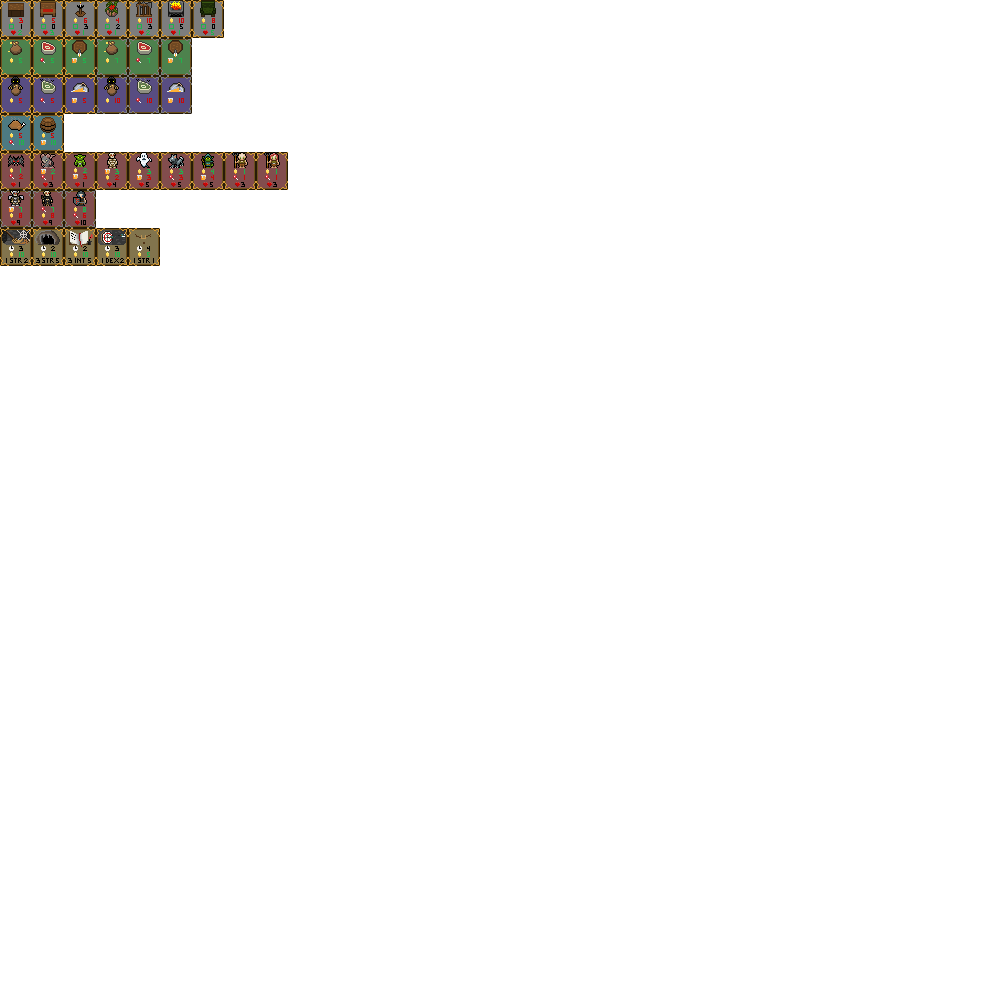
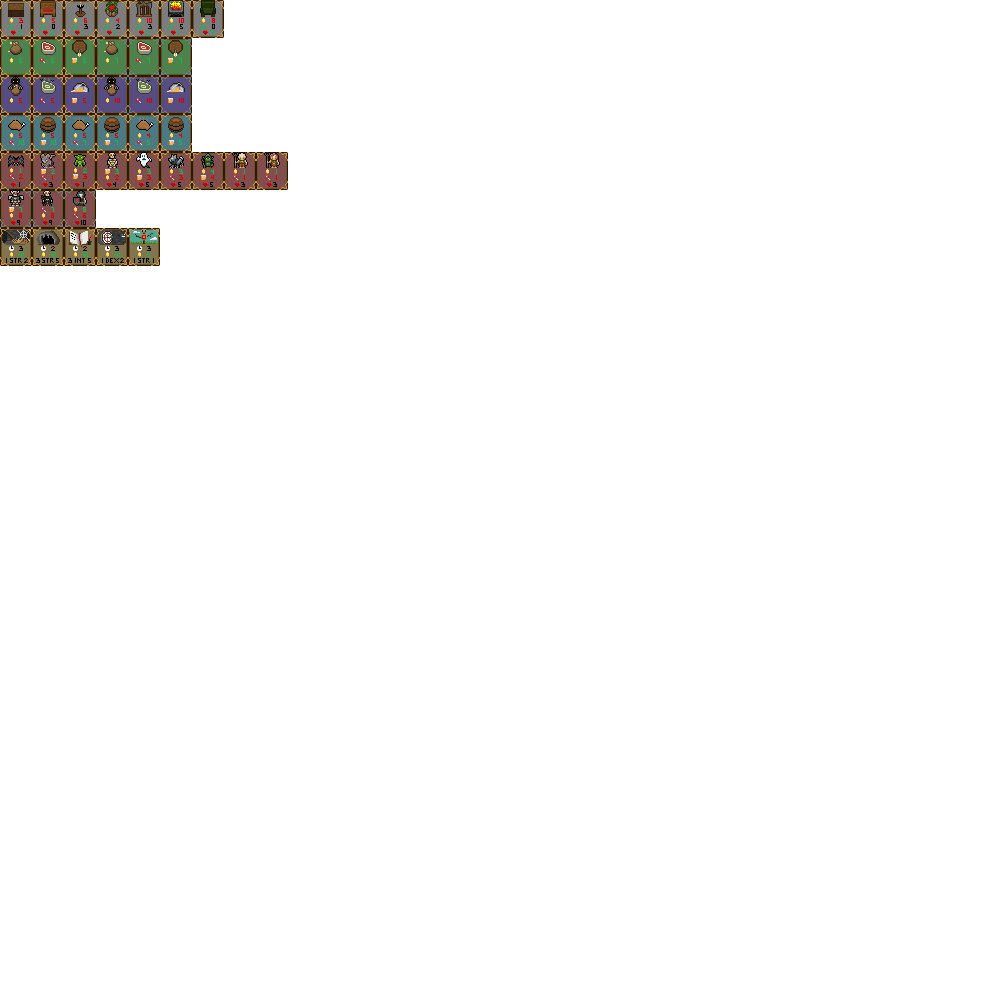
Added More Common Resource Cards Added Quest Names

Changed region(s): [[0.062, 0.093, 0.217, 0.155], [0.124, 0.217, 0.155, 0.248]]

diff --git a/db.js b/db.js
@@ -25,7 +25,11 @@ var BUFFCURSESPRITES = {
 
 var RSCCARDSPRITES = {
     "chicken" : new Vector2D(0, 3),
-    "keg" : new Vector2D(1,3)
+    "keg" : new Vector2D(1,3),
+    "chickenmed" : new Vector2D(2,3),
+    "kegmed" : new Vector2D(3,3),
+    "chickensmall" : new Vector2D(4,3),
+    "kegsmall" : new Vector2D(5,3)
 }
 
 var CHARCARDSPRITES = {
@@ -47,7 +51,8 @@ var QUESTCARDSPRITES = {
     "sweep" : new Vector2D(0, 6),
     "cave" : new Vector2D(1,6),
     "book" : new Vector2D(2,6),
-    "darts" : new Vector2D(3,6)
+    "darts" : new Vector2D(3,6),
+    "trainingdummy" : new Vector2D(4,6)
 }
 
 var RSCTYPECHANCE = 0.5;
@@ -348,6 +353,14 @@ class Database
                                             RSCCARDSPRITES["chicken"].x, RSCCARDSPRITES["chicken"].y, this.food, this.gold, 10, 5));
         this.rscCardsCommon.push(new ResourceCard(RSCCARDSPRITES["keg"].x, RSCCARDSPRITES["keg"].y,
                                             RSCCARDSPRITES["keg"].x, RSCCARDSPRITES["keg"].y, this.beer, this.gold, 10, 5));
+        this.rscCardsCommon.push(new ResourceCard(RSCCARDSPRITES["chickenmed"].x, RSCCARDSPRITES["chickenmed"].y,
+                                            RSCCARDSPRITES["chickenmed"].x, RSCCARDSPRITES["chickenmed"].y, this.food, this.gold, 7, 5));
+        this.rscCardsCommon.push(new ResourceCard(RSCCARDSPRITES["kegmed"].x, RSCCARDSPRITES["kegmed"].y,
+                                            RSCCARDSPRITES["kegmed"].x, RSCCARDSPRITES["kegmed"].y, this.beer, this.gold, 7, 5));
+        this.rscCardsCommon.push(new ResourceCard(RSCCARDSPRITES["chickensmall"].x, RSCCARDSPRITES["chickensmall"].y,
+                                            RSCCARDSPRITES["chickensmall"].x, RSCCARDSPRITES["chickensmall"].y, this.food, this.gold, 5, 4));
+        this.rscCardsCommon.push(new ResourceCard(RSCCARDSPRITES["kegsmall"].x, RSCCARDSPRITES["kegsmall"].y,
+                                            RSCCARDSPRITES["kegsmall"].x, RSCCARDSPRITES["kegsmall"].y, this.beer, this.gold, 5, 4));
     }
 
     LoadCharacterCards()
@@ -407,15 +420,18 @@ class Database
     {
         this.questCardsCommon.push(new QuestCard(QUESTCARDSPRITES["sweep"].x, QUESTCARDSPRITES["sweep"].y,
                                            QUESTCARDSPRITES["sweep"].x, QUESTCARDSPRITES["sweep"].y,
-                                           1, 2, STATTYPE_STR, 3, [new ResourceUpkeep(this.gold, 10)]));
+                                           1, 2, STATTYPE_STR, 3, [new ResourceUpkeep(this.gold, 10)], "Clean the Cellar"));
         this.questCardsCommon.push(new QuestCard(QUESTCARDSPRITES["cave"].x, QUESTCARDSPRITES["cave"].y,
                                             QUESTCARDSPRITES["cave"].x, QUESTCARDSPRITES["cave"].y,
-                                           3, 5, STATTYPE_STR, 2, [new ResourceUpkeep(this.gold, 10)]));
+                                           3, 5, STATTYPE_STR, 2, [new ResourceUpkeep(this.gold, 10)], "Delve in a Cave"));
         this.questCardsCommon.push(new QuestCard(QUESTCARDSPRITES["book"].x, QUESTCARDSPRITES["book"].y,
                                             QUESTCARDSPRITES["book"].x, QUESTCARDSPRITES["book"].y,
-                                           3, 5, STATTYPE_INT, 2, [new ResourceUpkeep(this.gold, 10)]));
+                                           3, 5, STATTYPE_INT, 2, [new ResourceUpkeep(this.gold, 10)], "Write a Book"));
         this.questCardsCommon.push(new QuestCard(QUESTCARDSPRITES["darts"].x, QUESTCARDSPRITES["darts"].y,
                                             QUESTCARDSPRITES["darts"].x, QUESTCARDSPRITES["darts"].y,
-                                           1, 2, STATTYPE_DEX, 3, [new ResourceUpkeep(this.gold, 10)]));
+                                           1, 2, STATTYPE_DEX, 3, [new ResourceUpkeep(this.gold, 10)], "Play Darts"));
+        this.questCardsCommon.push(new QuestCard(QUESTCARDSPRITES["trainingdummy"].x, QUESTCARDSPRITES["trainingdummy"].y,
+                                           QUESTCARDSPRITES["trainingdummy"].x, QUESTCARDSPRITES["trainingdummy"].y,
+                                          1, 1, STATTYPE_DEX, 3, [new ResourceUpkeep(this.gold, 5)], "Basic Training"));
     }
 }

diff --git a/model.js b/model.js
@@ -259,7 +259,7 @@ class Card
 class QuestCard extends Card
 {
   constructor(smCardSpriteX, smCardSpriteY, lgCardSpriteX, lgCardSpriteY, 
-      minRange, maxRange, statRequirement, turnLength, rscUpkeeps)
+      minRange, maxRange, statRequirement, turnLength, rscUpkeeps, name)
   {
     super(smCardSpriteX, smCardSpriteY, lgCardSpriteX, lgCardSpriteY);
     this.minRange = minRange;
@@ -269,7 +269,7 @@ class QuestCard extends Card
     this.turnLength = turnLength;
     this.cardType = CARDTYPE_QUEST;
     this.rscUpkeeps = rscUpkeeps;
-    //this.name = name;
+    this.name = name;
     this.currentTurn = 0;
   }
 
@@ -293,6 +293,11 @@ class QuestCard extends Card
             statPower = this.assignedPatron.stats.dex;
             break;
         }
+
+        //give them some chance for success if they're at the min range
+        if (statPower == this.minRange)
+          statPower += 0.3;
+
         let rangeModifier = Math.random() * (this.maxRange - this.minRange);
 
         if (statPower >= (this.maxRange - rangeModifier))
@@ -302,11 +307,11 @@ class QuestCard extends Card
             this.rscUpkeeps[i].Update();
           }
           this.assignedPatron.stats.LevelUp();
-          return this.assignedPatron.name + " completed a quest and grew stronger.";
+          return this.assignedPatron.name + " completed " + this.name + " and grew stronger.";
         }
         else
         {
-          let message = this.assignedPatron.name + " died attempting to complete a quest."
+          let message = this.assignedPatron.name + " died attempting to " + this.name + ".";
           this.assignedPatron = undefined;
           return message;
         }
@@ -326,7 +331,7 @@ class QuestCard extends Card
   {
     return new QuestCard(this.smallCardSpriteLocX / TILEWIDTH, this.smallCardSpriteLocY / TILEHEIGHT, 
                         this.largeCardSpriteLocX / LARGECARDWIDTH, this.largeCardSpriteLocY / LARGECARDHEIGHT,
-                        this.minRange, this.maxRange, this.statRequirement, this.turnLength, this.rscUpkeeps);
+                        this.minRange, this.maxRange, this.statRequirement, this.turnLength, this.rscUpkeeps, this.name);
   }
 }
 
@@ -533,7 +538,7 @@ class CharacterCard extends Card
             unpaidUpkeep = !this.resourceUpkeeps[i].Update();
         }
         if (unpaidUpkeep)
-            this.satisfactionLevel -= 10;
+            this.satisfactionLevel -= 100;
 
         //determine satisfaction buffs from objects
         //TODO: Determine most efficient way to calculate radius buffs.
@@ -780,8 +785,8 @@ class Board
       let y = this.focusedVector.y;
       if (this.objectMap[x][y] != undefined)
       {
-        this.objectMap[x][y].DrawLargeCardOnBoard(x * TILEWIDTH, y * TILEHEIGHT, ctx);
         this.objectMap[x][y].DrawSatisfactionRange(x, y, ctx);
+        this.objectMap[x][y].DrawLargeCardOnBoard(x * TILEWIDTH, y * TILEHEIGHT, ctx);
         if (this.characterMap[x][y] != undefined)
         this.characterMap[x][y].DrawLargeCardOnBoardWithOffset(x * TILEWIDTH, y * TILEHEIGHT, ctx);
       }
